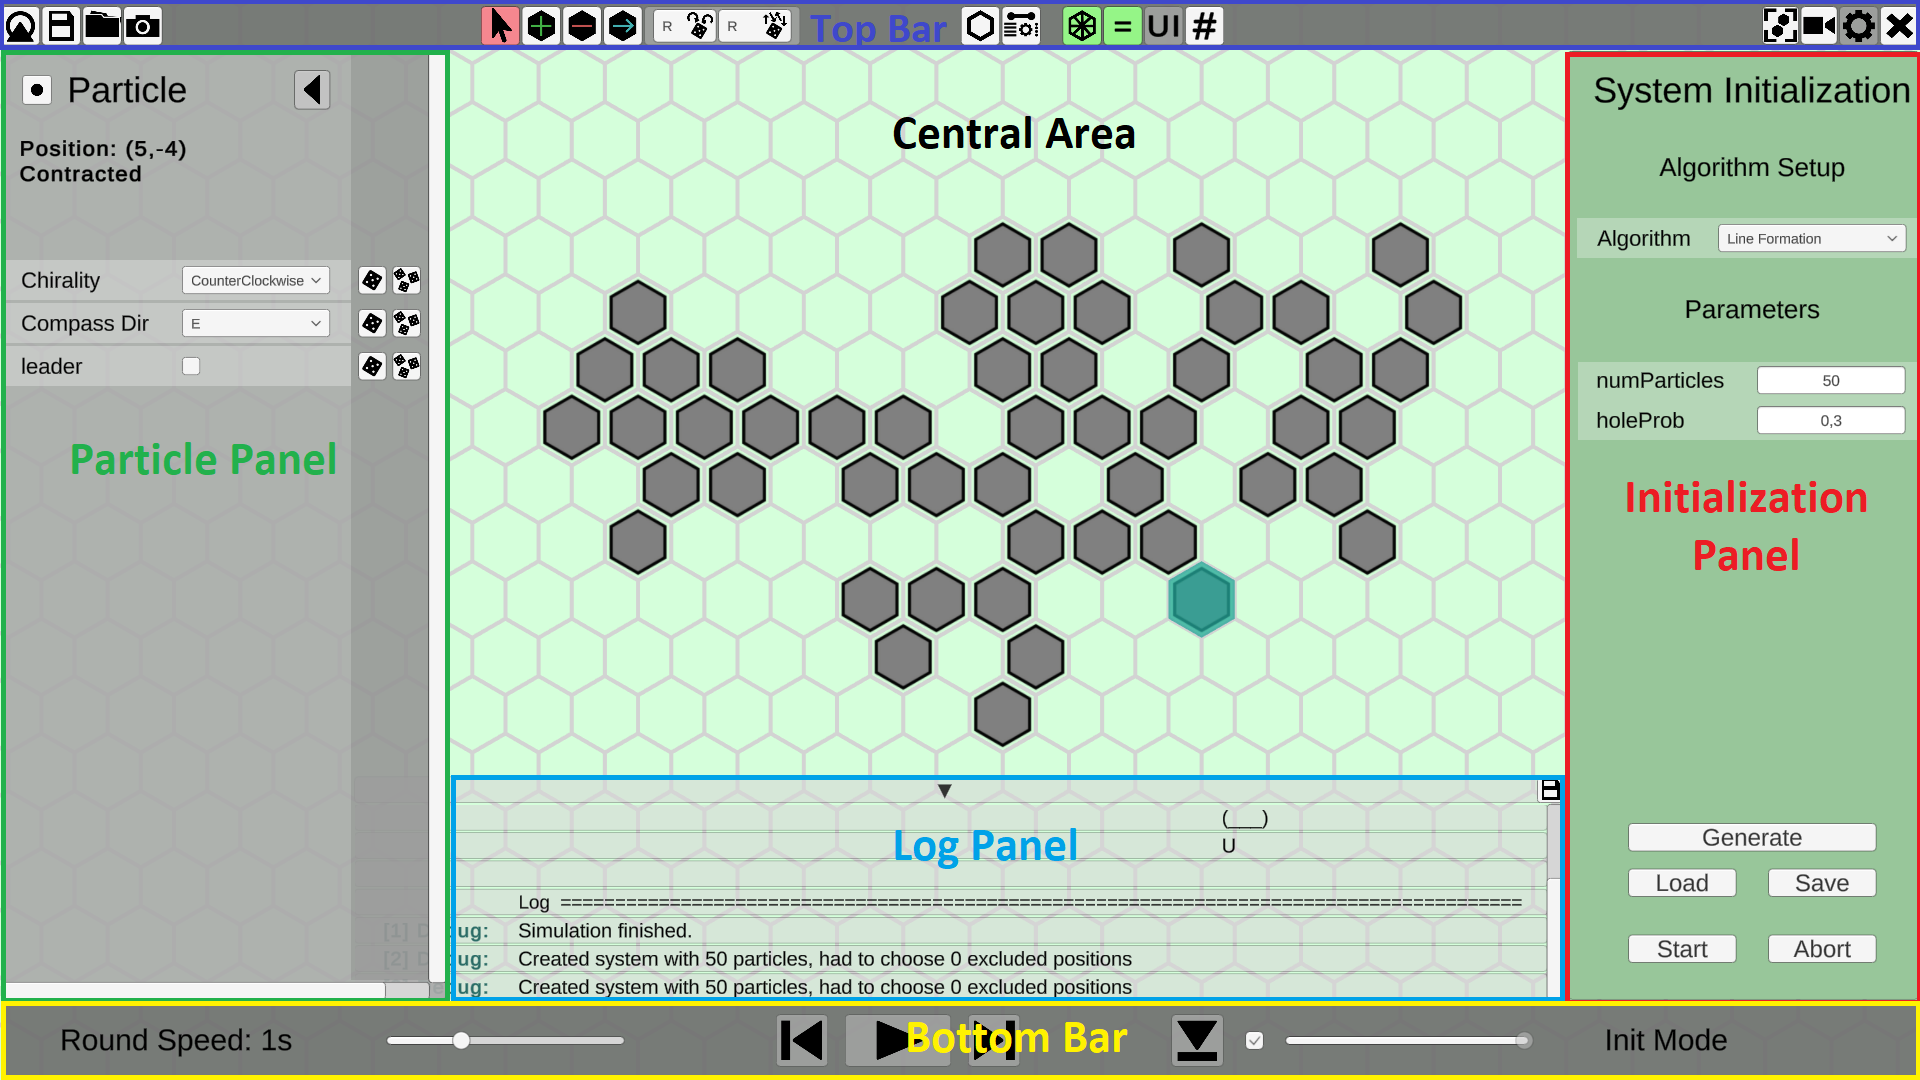
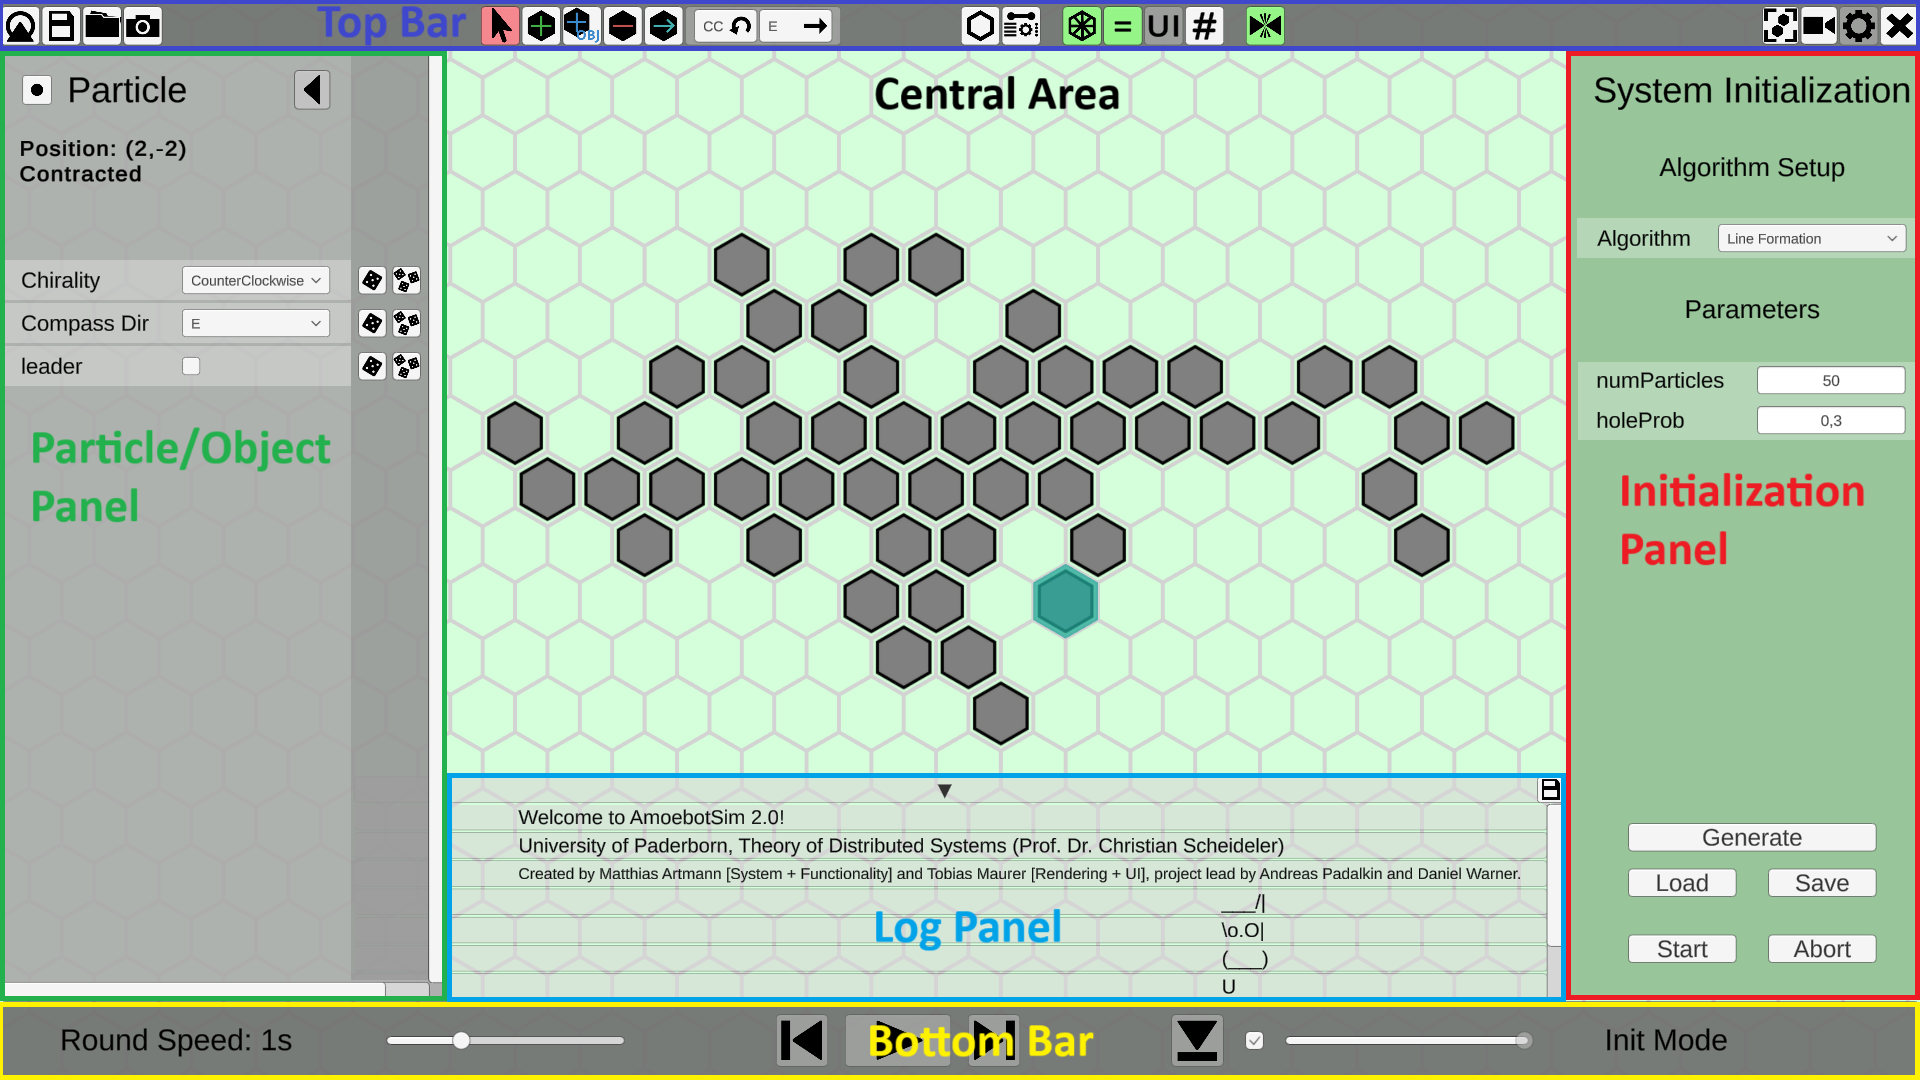
Updated Init Mode overview image

diff --git a/Documentation/user_guide/usage/init.md b/Documentation/user_guide/usage/init.md
@@ -11,7 +11,7 @@ In this mode, you can select an algorithm, place or remove the particles and obj
 
 The Init Mode UI is organized like this:
 
-![Init Mode UI Overview](~/images/init_mode_overview_2.png "Init Mode UI Overview")
+![Init Mode UI Overview](~/images/init_mode_overview.png "Init Mode UI Overview")
 
 In the following, we will cover the areas that are relevant in Init Mode.
 Many of the UI elements are also visible in Simulation Mode and will be covered on the corresponding page.
